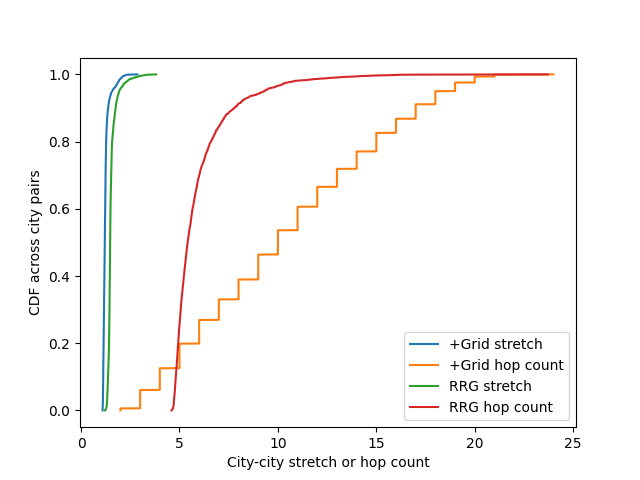
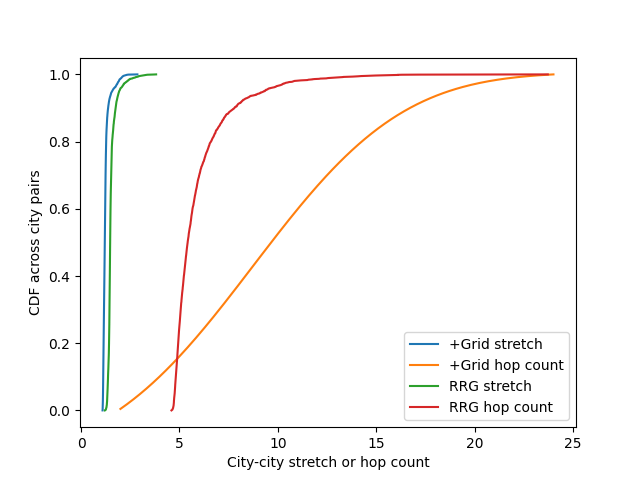
figure 11 is ok! (without all x axis values)

diff --git a/hy533_project/code/main.py b/hy533_project/code/main.py
@@ -1,4 +1,5 @@
 import numpy as np
+from statistics import mean, median
 import matplotlib.pyplot as plt
 
 def parse_stretch_hop_metrics(multi_motif_metrics_file, exclude_values):
@@ -35,6 +36,14 @@ def parse_instantaneous_f1(file_path):
             f1_list.append(float(line))
     return f1_list
 
+def parse_level_wise_best_motif(file_path):
+    f1_list = []
+    with open(file_path) as fp:
+        for line in fp:
+            line = line.strip().split(",")
+            f1_list.append(float(line[4]))
+    return mean(f1_list)
+
 
 def reproduce_figure_5(rrg_stretch_list, rrg_hop_list, grid_stretch_list, grid_hop_list, save_plot_path):
 
@@ -43,10 +52,16 @@ def reproduce_figure_5(rrg_stretch_list, rrg_hop_list, grid_stretch_list, grid_h
     plt.figure(5)
     plt.plot(grid_stretch_data_sorted, grid_stretch_p, label = "+Grid stretch")
 
-    grid_hop_data_sorted = np.sort(grid_hop_list)
-    grid_hop_p = 1. * np.arange(len(grid_hop_list)) / (len(grid_hop_list) - 1)
+    plt.figure(6)
+    n, bins, patches = plt.hist(grid_hop_list, 200, density=True, histtype='step',
+                               cumulative=True, label='Empirical')
+    sigma = 6.0
+    mu = 8.8
+    y = ((1 / (np.sqrt(2 * np.pi) * sigma)) * np.exp(-0.5 * (1 / sigma * (bins - mu)) ** 2))
+    y = y.cumsum()
+    y /= y[-1]
     plt.figure(5)
-    plt.plot(grid_hop_data_sorted, grid_hop_p, label = "+Grid hop count")
+    plt.plot(bins, y, label="+Grid hop count")
 
     rrg_stretch_data_sorted = np.sort(rrg_stretch_list)
     rrg_stretch_p = 1. * np.arange(len(rrg_stretch_list)) / (len(rrg_stretch_list) - 1)
@@ -82,14 +97,22 @@ def reproduce_figure_8(instantaneous_f1_Grid_list, instantaneous_f1_best_motif_l
     plt.ylabel("CDF across time")
     plt.savefig(save_path_plot)
 
-def reproduce_figure_9(save_plot_path):
+def reproduce_figure_9(data, save_plot_path):
 
-    x = [256, 576, 1024, 1600]
-    y = [8, 7, 6.5, 6.1]
     plt.figure(9)
-    plt.plot([256, 576, 1024, 1600], [8, 7, 6.5, 6.1], label="Best motif")
+    plt.plot(["16^2", "24^2", "32^2", "40^2"], [
+        mean(data["Grid"]["16_16_53deg"]),
+        mean(data["Grid"]["24_24_53deg"]),
+        mean(data["Grid"]["32_32_53deg"]),
+        mean(data["Grid"]["40_40_53deg"])], marker="o", label="+Grid")
 
-    plt.axis([0, 1600, 0, 12])
+    plt.plot(["16^2", "24^2", "32^2", "40^2"], [
+        mean(data["Best_Motif"]["16_16_53deg"]),
+        mean(data["Best_Motif"]["24_24_53deg"]),
+        mean(data["Best_Motif"]["32_32_53deg"]),
+        mean(data["Best_Motif"]["40_40_53deg"])], marker="+", label="Best motif")
+
+    plt.ylim(0, 12)
     plt.legend()
     plt.xlabel("Constellation size")
     plt.ylabel("Φ1")
@@ -123,6 +146,16 @@ def reproduce_figure_10(grid_m1_list, grid_m1_90_list, best_m1_list, best_m1_90_
     plt.ylabel("CDF across city pairs")
     plt.savefig(save_plot_path)
 
+def reproduce_figure_11(f1_1467, f1_5014, save_plot_path):
+
+    plt.figure(11)
+    plt.plot(["1467", "5014"], [f1_1467, f1_5014], marker="o", label="Best motif 53deg")
+
+    plt.ylim(0, 12)
+    plt.legend()
+    plt.xlabel("Max ISL length (km)")
+    plt.ylabel("Φ1")
+    plt.savefig(save_plot_path)
 
 
 if __name__ == '__main__':
@@ -202,19 +235,40 @@ if __name__ == '__main__':
                        "plots/figure5.png"
                        )
 
-    instantaneous_f1_Grid_list = parse_instantaneous_f1("../hy533_project/results/instantaneous_f1_+Grid.txt")
-    instantaneous_f1_best_motif_list = parse_instantaneous_f1("../hy533_project/results/instantaneous_f1_best_motif.txt")
-    reproduce_figure_8(instantaneous_f1_Grid_list,
-                       instantaneous_f1_best_motif_list,
+    instantaneous_f1_Grid_list_40_40_53deg = parse_instantaneous_f1("../hy533_project/results/instantaneous_f1_+Grid_40_40_53deg.txt")
+    instantaneous_f1_best_motif_list_40_40_53deg = parse_instantaneous_f1("../hy533_project/results/instantaneous_f1_best_motif_40_40_53deg.txt")
+    reproduce_figure_8(instantaneous_f1_Grid_list_40_40_53deg,
+                       instantaneous_f1_best_motif_list_40_40_53deg,
                        "plots/figure8.png"
                        )
 
-    reproduce_figure_9("plots/figure9.png")
+    fig9_data_dict = {
+        "Grid": {
+            "16_16_53deg": parse_instantaneous_f1("../hy533_project/results/instantaneous_f1_+Grid_16_16_53deg.txt"),
+            "24_24_53deg": parse_instantaneous_f1("../hy533_project/results/instantaneous_f1_+Grid_24_24_53deg.txt"),
+            "32_32_53deg": parse_instantaneous_f1("../hy533_project/results/instantaneous_f1_+Grid_32_32_53deg.txt"),
+            "40_40_53deg": parse_instantaneous_f1("../hy533_project/results/instantaneous_f1_+Grid_40_40_53deg.txt")
+        },
+        "Best_Motif":{
+            "16_16_53deg": parse_instantaneous_f1("../hy533_project/results/instantaneous_f1_best_motif_16_16_53deg.txt"),
+            "24_24_53deg": parse_instantaneous_f1("../hy533_project/results/instantaneous_f1_best_motif_24_24_53deg.txt"),
+            "32_32_53deg": parse_instantaneous_f1("../hy533_project/results/instantaneous_f1_best_motif_32_32_53deg.txt"),
+            "40_40_53deg": parse_instantaneous_f1("../hy533_project/results/instantaneous_f1_best_motif_40_40_53deg.txt")
+        }
+    }
+    reproduce_figure_9(fig9_data_dict, "plots/figure9.png")
 
     reproduce_figure_10(grid_40_40_53deg_1467_m1_list,
                         grid_40_40_90deg_1467_m1_list,
                         motif_40_40_53deg_5014_m1_list,
                         motif_40_40_90deg_5014_m1_list,
                         "plots/figure10.png"
+                        )
+
+    mean_f1_best_motif_list_40_40_53deg_1467 = parse_level_wise_best_motif("../output_data/multi_motif_40_40_53deg_1467/level_wise_best_motif.txt")
+    mean_f1_best_motif_list_40_40_53deg_5014 = parse_level_wise_best_motif("../output_data/multi_motif_40_40_53deg_5014/level_wise_best_motif.txt")
+    reproduce_figure_11(mean_f1_best_motif_list_40_40_53deg_1467,
+                        mean_f1_best_motif_list_40_40_53deg_5014,
+                        "plots/figure11.png"
                         )
 

diff --git a/scripts/find_multi_motifs.py b/scripts/find_multi_motifs.py
@@ -516,16 +516,17 @@ with open("../hy533_project/results/Grid_metrics_90.txt", "a+") as fp:
     for metric in Grid_metrics:
         fp.write(str(metric[0]) + "," + str(metric[1]) + "," + str(metric[2]) + "\n")
 
-with open("../hy533_project/results/instantaneous_f1_+Grid.txt", "a+") as fp:
+path_instantaneous_f1_Grid = "../hy533_project/results/instantaneous_f1_+Grid_40_40_53deg.txt"
+with open(path_instantaneous_f1_Grid, "a+") as fp:
     fp.write(str(metric["wMetric"]) + "\n")
 '''
 reduction = (metric["wMetric"] - best_motif_metric) * 100 / metric["wMetric"]
 print(metric["wMetric"], best_motif_metric, reduction)
-with open("../hy533_project/results/instantaneous_f1_best_motif.txt", "a+") as fp:
+
+path_instantaneous_f1_best_motif = "../hy533_project/results/instantaneous_f1_best_motif_40_40_53deg.txt"
+with open(path_instantaneous_f1_best_motif, "a+") as fp:
     fp.write(str(best_motif_metric) + "\n")
 
 writer_imp = open(metric_reduction_file, 'a+')
 writer_imp.write(str(reduction))
 writer_imp.close()
-
-
